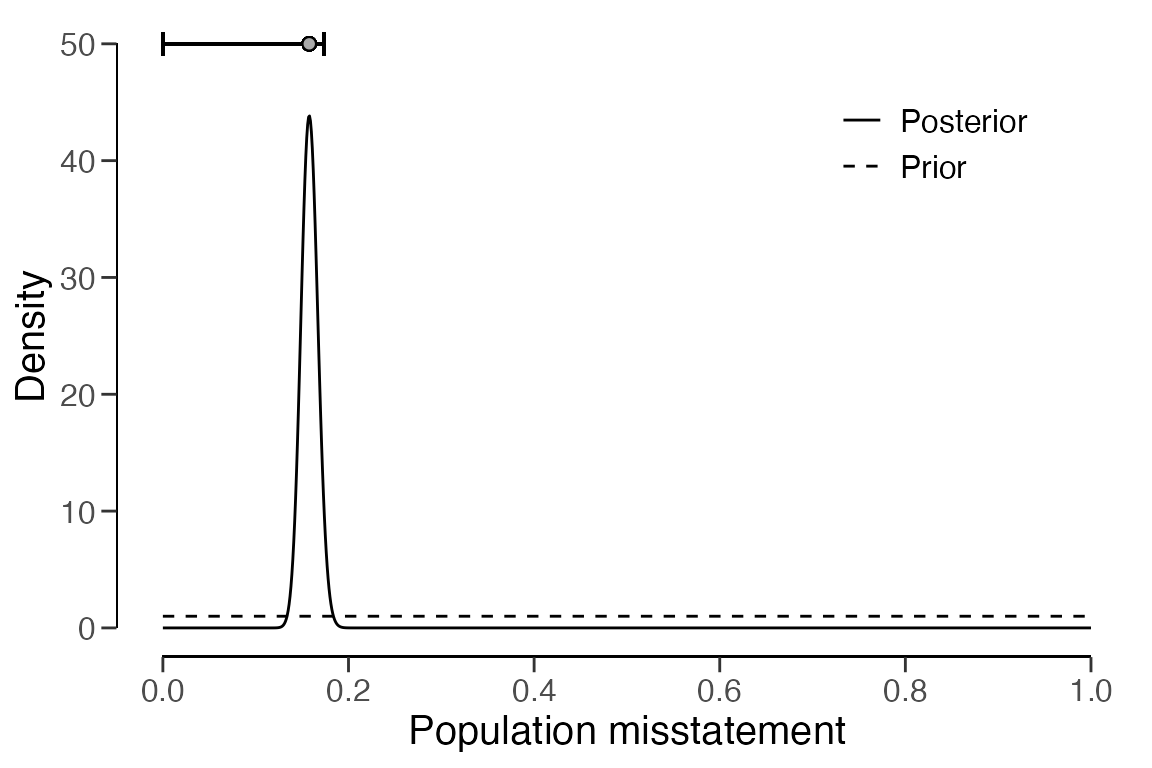
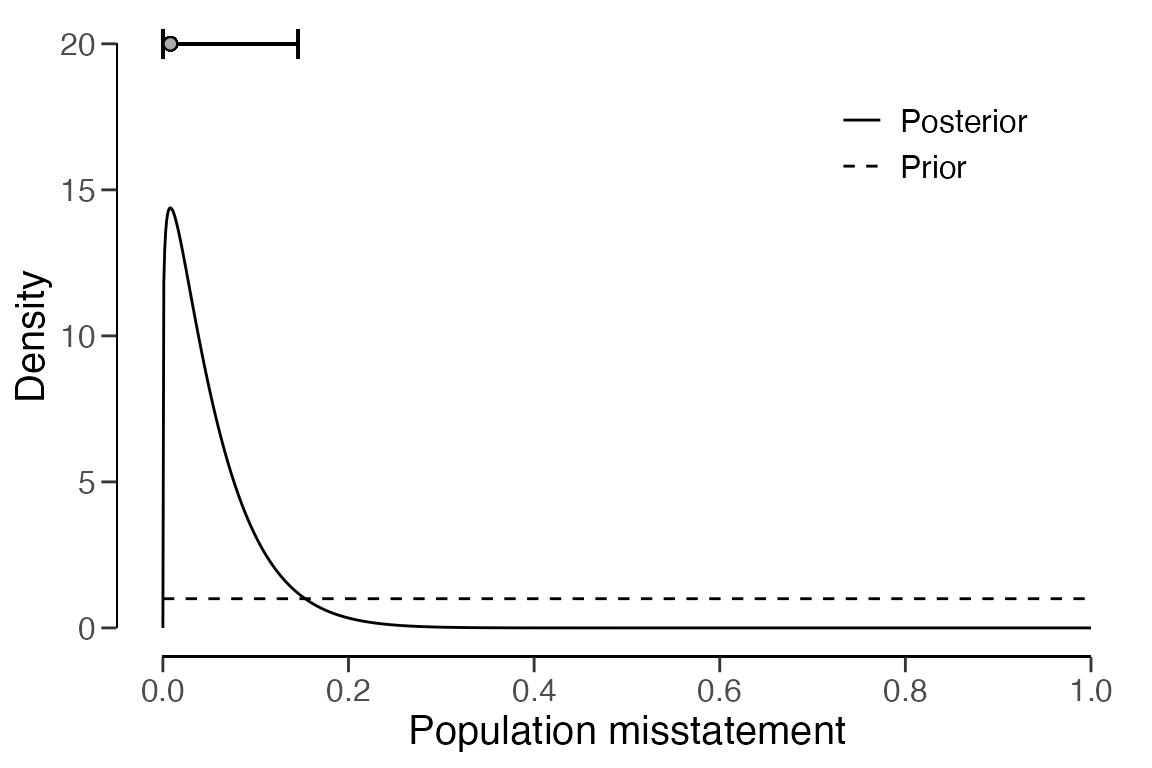
Built site for jfa@0.7.3: 54d01b3

diff --git a/articles/sample-evaluation.html b/articles/sample-evaluation.html
@@ -597,6 +597,138 @@ function.</p>
 <div class="section level2">
 <h2 id="evaluation-using-data">Evaluation using data<a class="anchor" aria-label="anchor" href="#evaluation-using-data"></a>
 </h2>
+<p>We now consider the situation where the auditor has access to the
+sample (and potentially the population) data and wants to perform
+inference about the misstatement using these data.</p>
+<div class="section level3">
+<h3 id="non-stratified-samples-1">Non-stratified samples<a class="anchor" aria-label="anchor" href="#non-stratified-samples-1"></a>
+</h3>
+<p>In this example, we will demonstrate how to evaluate a non-stratified
+sample using a data set. For this, we will use the <code>accounts</code>
+data that is included in the package. These data represent an audit
+sample obtained from a population of
+<math display="inline" xmlns="http://www.w3.org/1998/Math/MathML"><semantics><mi>N</mi><annotation encoding="application/x-tex">N</annotation></semantics></math>
+= 87 accounts receivable, totaling $612,824 in book value <span class="citation">(Higgins &amp; Nandram, 2009; Lohr, 2021)</span>.</p>
+<div class="sourceCode" id="cb17"><pre class="downlit sourceCode r">
+<code class="sourceCode R"><span><span class="fu"><a href="https://rdrr.io/r/utils/data.html" class="external-link">data</a></span><span class="op">(</span><span class="st">"accounts"</span><span class="op">)</span></span>
+<span><span class="fu"><a href="https://rdrr.io/r/utils/head.html" class="external-link">head</a></span><span class="op">(</span><span class="va">accounts</span><span class="op">)</span></span></code></pre></div>
+<pre><code><span><span class="co">##   account bookValue auditValue</span></span>
+<span><span class="co">## 1       3      6842       6842</span></span>
+<span><span class="co">## 2       9     16350      16350</span></span>
+<span><span class="co">## 3      13      3935       3935</span></span>
+<span><span class="co">## 4      24      7090       7050</span></span>
+<span><span class="co">## 5      29      5533       5533</span></span>
+<span><span class="co">## 6      34      2163       2163</span></span></code></pre>
+<p>To evaluate a non-stratified sample using data, you need to specify
+the <code>data</code>, <code>values</code>, and
+<code>values.audit</code> arguments in the <code><a href="../reference/evaluation.html">evaluation()</a></code>
+function. The input for the latter two arguments should be the name of
+the corresponding column in the input for the <code>data</code>
+argument. In the <code>accounts</code> data, these two columns are
+called <code>bookValue</code> and <code>auditValue</code>,
+respectively.</p>
+<div class="section level4">
+<h4 id="classical-approach-1">Classical approach<a class="anchor" aria-label="anchor" href="#classical-approach-1"></a>
+</h4>
+<p>The command below evaluates the <code>allowances</code> sample using
+a classical non-stratified evaluation approach.</p>
+<div class="sourceCode" id="cb19"><pre class="downlit sourceCode r">
+<code class="sourceCode R"><span><span class="fu"><a href="../reference/evaluation.html">evaluation</a></span><span class="op">(</span></span>
+<span>  data <span class="op">=</span> <span class="va">accounts</span>, method <span class="op">=</span> <span class="st">"binomial"</span>,</span>
+<span>  values <span class="op">=</span> <span class="st">"bookValue"</span>, values.audit <span class="op">=</span> <span class="st">"auditValue"</span></span>
+<span><span class="op">)</span></span></code></pre></div>
+<pre><code><span><span class="co">## </span></span>
+<span><span class="co">##  Classical Audit Sample Evaluation</span></span>
+<span><span class="co">## </span></span>
+<span><span class="co">## data:  accounts</span></span>
+<span><span class="co">## number of errors = 4, number of samples = 20, taint = 0.16127</span></span>
+<span><span class="co">## 95 percent confidence interval:</span></span>
+<span><span class="co">##  0.0000000 0.1527346</span></span>
+<span><span class="co">## most likely estimate:</span></span>
+<span><span class="co">##  0.0080633 </span></span>
+<span><span class="co">## results obtained via method 'binomial'</span></span></code></pre>
+<p>In this instance, the output indicates that the estimated most likely
+misstatement in the population is 0.81 percent. The 95 percent
+(one-sided) confidence interval extends from 0 percent to 15.27 percent.
+More detailed information about the results can be obtained via the
+<code><a href="https://rdrr.io/r/base/summary.html" class="external-link">summary()</a></code> function.</p>
+</div>
+<div class="section level4">
+<h4 id="bayesian-approach-1">Bayesian approach<a class="anchor" aria-label="anchor" href="#bayesian-approach-1"></a>
+</h4>
+<p>The call below evaluates the <code>accounts</code> sample using a
+Bayesian non-stratified evaluation procedure.</p>
+<div class="sourceCode" id="cb21"><pre class="downlit sourceCode r">
+<code class="sourceCode R"><span><span class="va">result</span> <span class="op">&lt;-</span> <span class="fu"><a href="../reference/evaluation.html">evaluation</a></span><span class="op">(</span></span>
+<span>  data <span class="op">=</span> <span class="va">accounts</span>, method <span class="op">=</span> <span class="st">"binomial"</span>,</span>
+<span>  values <span class="op">=</span> <span class="st">"bookValue"</span>, values.audit <span class="op">=</span> <span class="st">"auditValue"</span>, prior <span class="op">=</span> <span class="cn">TRUE</span></span>
+<span><span class="op">)</span></span>
+<span><span class="fu"><a href="https://rdrr.io/r/base/print.html" class="external-link">print</a></span><span class="op">(</span><span class="va">result</span><span class="op">)</span></span></code></pre></div>
+<pre><code><span><span class="co">## </span></span>
+<span><span class="co">##  Bayesian Audit Sample Evaluation</span></span>
+<span><span class="co">## </span></span>
+<span><span class="co">## data:  accounts</span></span>
+<span><span class="co">## number of errors = 4, number of samples = 20, taint = 0.16127</span></span>
+<span><span class="co">## 95 percent credible interval:</span></span>
+<span><span class="co">##  0.000000 0.145994</span></span>
+<span><span class="co">## most likely estimate:</span></span>
+<span><span class="co">##  0.0080633 </span></span>
+<span><span class="co">## results obtained via method 'binomial' + 'prior'</span></span></code></pre>
+<p>The output shows that the estimate of the misstatement in the
+population is again 0.81 percent, with the 95 percent (one-sided)
+credible interval ranging from 0 percent to 14.6 percent. For the
+Bayesian analysis, the prior and posterior distribution can be
+visualized by a call to <code>plot(..., type = "posterior")</code>.</p>
+<div class="sourceCode" id="cb23"><pre class="downlit sourceCode r">
+<code class="sourceCode R"><span><span class="fu"><a href="https://rdrr.io/r/graphics/plot.default.html" class="external-link">plot</a></span><span class="op">(</span><span class="va">result</span>, type <span class="op">=</span> <span class="st">"posterior"</span><span class="op">)</span></span></code></pre></div>
+<p><img src="sample-evaluation_files/figure-html/unnamed-chunk-16-1.png" width="576" style="display: block; margin: auto;"></p>
+<p>You can also quantify and monitor evidence for or against the claim
+that the misstatement is lower than a specific performance materiality
+using the Bayes factor. Suppose that the performance materiality for
+this example is set to ten percent of the population value. It is
+recommended to use an impartial prior distribution when calculating the
+Bayes factor, which can be set up using the code below.</p>
+<div class="sourceCode" id="cb24"><pre class="downlit sourceCode r">
+<code class="sourceCode R"><span><span class="va">prior</span> <span class="op">&lt;-</span> <span class="fu"><a href="../reference/auditPrior.html">auditPrior</a></span><span class="op">(</span></span>
+<span>  materiality <span class="op">=</span> <span class="fl">0.1</span>, method <span class="op">=</span> <span class="st">"impartial"</span>, likelihood <span class="op">=</span> <span class="st">"binomial"</span></span>
+<span><span class="op">)</span></span></code></pre></div>
+<p>After it has been specified, you can use the impartial prior
+distribution in the <code><a href="../reference/evaluation.html">evaluation()</a></code> function as input for the
+<code>prior</code> argument.</p>
+<div class="sourceCode" id="cb25"><pre class="downlit sourceCode r">
+<code class="sourceCode R"><span><span class="va">result</span> <span class="op">&lt;-</span> <span class="fu"><a href="../reference/evaluation.html">evaluation</a></span><span class="op">(</span></span>
+<span>  materiality <span class="op">=</span> <span class="fl">0.1</span>, data <span class="op">=</span> <span class="va">accounts</span>, method <span class="op">=</span> <span class="st">"binomial"</span>,</span>
+<span>  values <span class="op">=</span> <span class="st">"bookValue"</span>, values.audit <span class="op">=</span> <span class="st">"auditValue"</span>, prior <span class="op">=</span> <span class="va">prior</span></span>
+<span><span class="op">)</span></span>
+<span><span class="fu"><a href="https://rdrr.io/r/base/print.html" class="external-link">print</a></span><span class="op">(</span><span class="va">result</span><span class="op">)</span></span></code></pre></div>
+<pre><code><span><span class="co">## </span></span>
+<span><span class="co">##  Bayesian Audit Sample Evaluation</span></span>
+<span><span class="co">## </span></span>
+<span><span class="co">## data:  accounts</span></span>
+<span><span class="co">## number of errors = 4, number of samples = 20, taint = 0.16127, BF₁₀ =</span></span>
+<span><span class="co">## 11.274</span></span>
+<span><span class="co">## alternative hypothesis: true misstatement rate is less than 0.1</span></span>
+<span><span class="co">## 95 percent credible interval:</span></span>
+<span><span class="co">##  0.0000000 0.1171385</span></span>
+<span><span class="co">## most likely estimate:</span></span>
+<span><span class="co">##  0.0063047 </span></span>
+<span><span class="co">## results obtained via method 'binomial' + 'prior'</span></span></code></pre>
+<p>It can be seen from the output that the Bayes factor in favor of the
+hypothesis of tolerable misstatement is 11.274. This indicates that the
+data is roughly 11 times more likely under the hypothesis of tolerable
+misstatement than under the hypothesis of intolerable misstatement.
+Besides computing the Bayes factor for the total sample, it is also
+possible to see how the Bayes factor evolves as a function of the sample
+size. This can be done via a call to
+<code>plot(..., type = "sequential")</code>.</p>
+<div class="sourceCode" id="cb27"><pre class="downlit sourceCode r">
+<code class="sourceCode R"><span><span class="fu"><a href="https://rdrr.io/r/graphics/plot.default.html" class="external-link">plot</a></span><span class="op">(</span><span class="va">result</span>, type <span class="op">=</span> <span class="st">"sequential"</span><span class="op">)</span></span></code></pre></div>
+<p><img src="sample-evaluation_files/figure-html/unnamed-chunk-19-1.png" width="576" style="display: block; margin: auto;"></p>
+</div>
+</div>
+<div class="section level3">
+<h3 id="stratified-samples-1">Stratified samples<a class="anchor" aria-label="anchor" href="#stratified-samples-1"></a>
+</h3>
 <p>In this example, we will demonstrate how to evaluate a stratified
 sample using a data set. We will use the <code>allowances</code> data
 set that is included in the package. This data set comprises
@@ -606,10 +738,10 @@ recorded value book value (column <code>bookValue</code>) and an audited
 value (column <code>auditValue</code>), which is the true value for the
 purpose of this illustration. The data set already identifies the items
 that have been audited as part of the sample in the column
-<code>times</code>. In this scenario, we will be performing estimation
-and therefore do not specify the <code>materiality</code> argument in
-the <code><a href="../reference/evaluation.html">evaluation()</a></code> function.</p>
-<div class="sourceCode" id="cb17"><pre class="downlit sourceCode r">
+<code>times</code>. In this scenario, we will only be performing
+estimation and therefore do not specify the <code>materiality</code>
+argument in the <code><a href="../reference/evaluation.html">evaluation()</a></code> function.</p>
+<div class="sourceCode" id="cb28"><pre class="downlit sourceCode r">
 <code class="sourceCode R"><span><span class="fu"><a href="https://rdrr.io/r/utils/data.html" class="external-link">data</a></span><span class="op">(</span><span class="st">"allowances"</span><span class="op">)</span></span>
 <span><span class="fu"><a href="https://rdrr.io/r/utils/head.html" class="external-link">head</a></span><span class="op">(</span><span class="va">allowances</span><span class="op">)</span></span></code></pre></div>
 <pre><code><span><span class="co">##   item branch bookValue auditValue times</span></span>
@@ -619,89 +751,6 @@ the <code><a href="../reference/evaluation.html">evaluation()</a></code> functio
 <span><span class="co">## 4    4     12      1250       1250     1</span></span>
 <span><span class="co">## 5    5     12      1400         NA     0</span></span>
 <span><span class="co">## 6    6     12      1190         NA     0</span></span></code></pre>
-<div class="section level3">
-<h3 id="non-stratified-samples-1">Non-stratified samples<a class="anchor" aria-label="anchor" href="#non-stratified-samples-1"></a>
-</h3>
-<p>To evaluate a non-stratified sample using data, you need to specify
-the <code>data</code>, <code>values</code>, and
-<code>values.audit</code> arguments. The input for these arguments
-should be the name of the corresponding column in the input for the
-<code>data</code> argument.</p>
-<div class="section level4">
-<h4 id="classical-approach-1">Classical approach<a class="anchor" aria-label="anchor" href="#classical-approach-1"></a>
-</h4>
-<p>The command below evaluates the <code>allowances</code> sample using
-a classical non-stratified evaluation approach. Note that the sample is
-automatically separated from the population because the
-<code>times</code> value for items not in the sample is
-<code>0</code>.</p>
-<div class="sourceCode" id="cb19"><pre class="downlit sourceCode r">
-<code class="sourceCode R"><span><span class="fu"><a href="../reference/evaluation.html">evaluation</a></span><span class="op">(</span></span>
-<span>  data <span class="op">=</span> <span class="va">allowances</span>, times <span class="op">=</span> <span class="st">"times"</span>, method <span class="op">=</span> <span class="st">"binomial"</span>,</span>
-<span>  values <span class="op">=</span> <span class="st">"bookValue"</span>, values.audit <span class="op">=</span> <span class="st">"auditValue"</span></span>
-<span><span class="op">)</span></span></code></pre></div>
-<pre><code><span><span class="co">## </span></span>
-<span><span class="co">##  Classical Audit Sample Evaluation</span></span>
-<span><span class="co">## </span></span>
-<span><span class="co">## data:  allowances</span></span>
-<span><span class="co">## number of errors = 401, number of samples = 1604, taint = 252.93</span></span>
-<span><span class="co">## 95 percent confidence interval:</span></span>
-<span><span class="co">##  0.0000000 0.1734283</span></span>
-<span><span class="co">## most likely estimate:</span></span>
-<span><span class="co">##  0.15769 </span></span>
-<span><span class="co">## results obtained via method 'binomial'</span></span></code></pre>
-<p>In this instance, the output indicates that the estimated
-misstatement in the population is 15.77 percent. The 95 percent
-(one-sided) confidence interval extends from 0 percent to 17.34 percent.
-More detailed information can be obtained via the <code><a href="https://rdrr.io/r/base/summary.html" class="external-link">summary()</a></code>
-function.</p>
-</div>
-<div class="section level4">
-<h4 id="bayesian-approach-1">Bayesian approach<a class="anchor" aria-label="anchor" href="#bayesian-approach-1"></a>
-</h4>
-<p>The call below evaluates the <code>allowances</code> sample using a
-Bayesian non-stratified evaluation procedure. The performance
-materiality for this example is set to twenty percen of the population
-value.</p>
-<div class="sourceCode" id="cb21"><pre class="downlit sourceCode r">
-<code class="sourceCode R"><span><span class="va">result</span> <span class="op">&lt;-</span> <span class="fu"><a href="../reference/evaluation.html">evaluation</a></span><span class="op">(</span></span>
-<span>  materiality <span class="op">=</span> <span class="fl">0.2</span>, data <span class="op">=</span> <span class="va">allowances</span>, times <span class="op">=</span> <span class="st">"times"</span>, method <span class="op">=</span> <span class="st">"binomial"</span>,</span>
-<span>  values <span class="op">=</span> <span class="st">"bookValue"</span>, values.audit <span class="op">=</span> <span class="st">"auditValue"</span>, prior <span class="op">=</span> <span class="cn">TRUE</span></span>
-<span><span class="op">)</span></span>
-<span><span class="fu"><a href="https://rdrr.io/r/base/print.html" class="external-link">print</a></span><span class="op">(</span><span class="va">result</span><span class="op">)</span></span></code></pre></div>
-<pre><code><span><span class="co">## </span></span>
-<span><span class="co">##  Bayesian Audit Sample Evaluation</span></span>
-<span><span class="co">## </span></span>
-<span><span class="co">## data:  allowances</span></span>
-<span><span class="co">## number of errors = 401, number of samples = 1604, taint = 252.93, BF₁₀</span></span>
-<span><span class="co">## = 545408</span></span>
-<span><span class="co">## alternative hypothesis: true misstatement rate is less than 0.2</span></span>
-<span><span class="co">## 95 percent credible interval:</span></span>
-<span><span class="co">##  0.0000000 0.1733213</span></span>
-<span><span class="co">## most likely estimate:</span></span>
-<span><span class="co">##  0.15769 </span></span>
-<span><span class="co">## results obtained via method 'binomial' + 'prior'</span></span></code></pre>
-<p>The output shows that the estimate of the misstatement in the
-population is 15.77 percent, with the 95 percent (one-sided) credible
-interval ranging from 0 percent to 17.33 percent. More detailed
-information can be obtained via <code><a href="https://rdrr.io/r/base/summary.html" class="external-link">summary()</a></code> and the prior and
-posterior distribution can be obtained by a call to
-<code>plot(..., type = "posterior")</code>.</p>
-<div class="sourceCode" id="cb23"><pre class="downlit sourceCode r">
-<code class="sourceCode R"><span><span class="fu"><a href="https://rdrr.io/r/graphics/plot.default.html" class="external-link">plot</a></span><span class="op">(</span><span class="va">result</span>, type <span class="op">=</span> <span class="st">"posterior"</span><span class="op">)</span></span></code></pre></div>
-<p><img src="sample-evaluation_files/figure-html/unnamed-chunk-16-1.png" width="576" style="display: block; margin: auto;"></p>
-<p>It is also possible to see how the Bayes factor evolves as a function
-of the sample size. This can be done using
-<code>plot(..., type = "sequential")</code>. In this case, the Bayes
-factor is very large due to the large sample.</p>
-<div class="sourceCode" id="cb24"><pre class="downlit sourceCode r">
-<code class="sourceCode R"><span><span class="fu"><a href="https://rdrr.io/r/graphics/plot.default.html" class="external-link">plot</a></span><span class="op">(</span><span class="va">result</span>, type <span class="op">=</span> <span class="st">"sequential"</span><span class="op">)</span></span></code></pre></div>
-<p><img src="sample-evaluation_files/figure-html/unnamed-chunk-17-1.png" width="576" style="display: block; margin: auto;"></p>
-</div>
-</div>
-<div class="section level3">
-<h3 id="stratified-samples-1">Stratified samples<a class="anchor" aria-label="anchor" href="#stratified-samples-1"></a>
-</h3>
 <p>To evaluate a stratified sample using a data set, you need to specify
 the <code>data</code>, <code>values</code>, <code>values.audit</code>,
 and <code>strata</code> arguments in the <code><a href="../reference/evaluation.html">evaluation()</a></code>
@@ -710,7 +759,7 @@ this example, the units are monetary, determined by summing up the book
 values of the items within each stratum. For instance, we can see that
 stratum two is the largest, with a total value of $2,792,814.33 and
 stratum five is the smallest, with a total value of $96,660.53.</p>
-<div class="sourceCode" id="cb25"><pre class="downlit sourceCode r">
+<div class="sourceCode" id="cb30"><pre class="downlit sourceCode r">
 <code class="sourceCode R"><span><span class="va">N.units</span> <span class="op">&lt;-</span> <span class="fu"><a href="https://rdrr.io/r/stats/aggregate.html" class="external-link">aggregate</a></span><span class="op">(</span><span class="va">allowances</span><span class="op">$</span><span class="va">bookValue</span>, <span class="fu"><a href="https://rdrr.io/r/base/list.html" class="external-link">list</a></span><span class="op">(</span><span class="va">allowances</span><span class="op">$</span><span class="va">branch</span><span class="op">)</span>, <span class="va">sum</span><span class="op">)</span><span class="op">$</span><span class="va">x</span></span>
 <span><span class="fu"><a href="https://rdrr.io/r/base/print.html" class="external-link">print</a></span><span class="op">(</span><span class="fu"><a href="https://rdrr.io/r/base/data.frame.html" class="external-link">data.frame</a></span><span class="op">(</span><span class="va">N.units</span><span class="op">)</span><span class="op">)</span></span></code></pre></div>
 <pre><code><span><span class="co">##       N.units</span></span>
@@ -737,8 +786,11 @@ stratum five is the smallest, with a total value of $96,660.53.</p>
 using a classical stratified evaluation method. In this process, the
 estimates from each stratum are poststratified to derive the estimate
 for the entire population. Note that for computational reasons it is
-important to set a seed here via <code><a href="https://rdrr.io/r/base/Random.html" class="external-link">set.seed()</a></code>.</p>
-<div class="sourceCode" id="cb27"><pre class="downlit sourceCode r">
+important to set a seed here via <code><a href="https://rdrr.io/r/base/Random.html" class="external-link">set.seed()</a></code>. Furthermore,
+note that the sample is automatically separated from the population
+because the <code>times</code> value for items not in the sample is
+<code>0</code>.</p>
+<div class="sourceCode" id="cb32"><pre class="downlit sourceCode r">
 <code class="sourceCode R"><span><span class="fu"><a href="https://rdrr.io/r/base/Random.html" class="external-link">set.seed</a></span><span class="op">(</span><span class="fl">1</span><span class="op">)</span></span>
 <span><span class="va">result</span> <span class="op">&lt;-</span> <span class="fu"><a href="../reference/evaluation.html">evaluation</a></span><span class="op">(</span></span>
 <span>  data <span class="op">=</span> <span class="va">allowances</span>, times <span class="op">=</span> <span class="st">"times"</span>, method <span class="op">=</span> <span class="st">"binomial"</span>,</span>
@@ -764,9 +816,9 @@ population estimate is therefore 4.26 percent. The estimates for each
 stratum are visualized below. For more detailed information, including
 the actual stratum estimates, you can use the <code><a href="https://rdrr.io/r/base/summary.html" class="external-link">summary()</a></code>
 function.</p>
-<div class="sourceCode" id="cb29"><pre class="downlit sourceCode r">
+<div class="sourceCode" id="cb34"><pre class="downlit sourceCode r">
 <code class="sourceCode R"><span><span class="fu"><a href="https://rdrr.io/r/graphics/plot.default.html" class="external-link">plot</a></span><span class="op">(</span><span class="va">result</span>, type <span class="op">=</span> <span class="st">"estimates"</span><span class="op">)</span></span></code></pre></div>
-<p><img src="sample-evaluation_files/figure-html/unnamed-chunk-20-1.png" width="576" style="display: block; margin: auto;"></p>
+<p><img src="sample-evaluation_files/figure-html/unnamed-chunk-23-1.png" width="576" style="display: block; margin: auto;"></p>
 </div>
 <div class="section level4">
 <h4 id="bayesian-approach-2">Bayesian approach<a class="anchor" aria-label="anchor" href="#bayesian-approach-2"></a>
@@ -777,7 +829,7 @@ The following command evaluates the <code>allowances</code> sample using
 a Bayesian stratified evaluation method. In this process, the estimates
 from each stratum are pooled and poststratified to derive the estimate
 for the entire population.</p>
-<div class="sourceCode" id="cb30"><pre class="downlit sourceCode r">
+<div class="sourceCode" id="cb35"><pre class="downlit sourceCode r">
 <code class="sourceCode R"><span><span class="fu"><a href="https://rdrr.io/r/base/Random.html" class="external-link">set.seed</a></span><span class="op">(</span><span class="fl">1</span><span class="op">)</span></span>
 <span><span class="va">result</span> <span class="op">&lt;-</span> <span class="fu"><a href="../reference/evaluation.html">evaluation</a></span><span class="op">(</span></span>
 <span>  data <span class="op">=</span> <span class="va">allowances</span>, times <span class="op">=</span> <span class="st">"times"</span>, method <span class="op">=</span> <span class="st">"binomial"</span>,</span>
@@ -805,15 +857,15 @@ approach. The estimates for each stratum are visualized below using the
 <code>plot(..., type = "estimates)</code> command but their actual
 values can be once again be obtained using the <code><a href="https://rdrr.io/r/base/summary.html" class="external-link">summary()</a></code>
 function.</p>
-<div class="sourceCode" id="cb32"><pre class="downlit sourceCode r">
+<div class="sourceCode" id="cb37"><pre class="downlit sourceCode r">
 <code class="sourceCode R"><span><span class="fu"><a href="https://rdrr.io/r/graphics/plot.default.html" class="external-link">plot</a></span><span class="op">(</span><span class="va">result</span>, type <span class="op">=</span> <span class="st">"estimates"</span><span class="op">)</span></span></code></pre></div>
-<p><img src="sample-evaluation_files/figure-html/unnamed-chunk-23-1.png" width="576" style="display: block; margin: auto;"></p>
+<p><img src="sample-evaluation_files/figure-html/unnamed-chunk-26-1.png" width="576" style="display: block; margin: auto;"></p>
 <p>The prior and posterior distribution for the population misstatement
 can be obtained via the <code>plot(..., type = "posterior")</code>
 function.</p>
-<div class="sourceCode" id="cb33"><pre class="downlit sourceCode r">
+<div class="sourceCode" id="cb38"><pre class="downlit sourceCode r">
 <code class="sourceCode R"><span><span class="fu"><a href="https://rdrr.io/r/graphics/plot.default.html" class="external-link">plot</a></span><span class="op">(</span><span class="va">result</span>, type <span class="op">=</span> <span class="st">"posterior"</span><span class="op">)</span></span></code></pre></div>
-<p><img src="sample-evaluation_files/figure-html/unnamed-chunk-24-1.png" width="576" style="display: block; margin: auto;"></p>
+<p><img src="sample-evaluation_files/figure-html/unnamed-chunk-27-1.png" width="576" style="display: block; margin: auto;"></p>
 </div>
 </div>
 </div>
@@ -844,6 +896,15 @@ Derks, K., Swart, J. de, Wagenmakers, E.-J., &amp; Wetzels, R. (2024).
 The <span>B</span>ayesian approach to audit evidence: Quantifying
 statistical evidence using the bayes factor. <em>Auditing: A Journal of
 Practice &amp; Theory</em>. <a href="https://doi.org/10.31234/osf.io/kzqp5" class="external-link">https://doi.org/10.31234/osf.io/kzqp5</a>
+</div>
+<div id="ref-higgins_2009" class="csl-entry">
+Higgins, H. N., &amp; Nandram, B. (2009). Monetary unit sampling:
+Improving estimation of the total audit error. <em>Advances in
+Accounting</em>, <em>25</em>(2), 174–182. <a href="https://doi.org/10.1016/j.adiac.2009.06.001" class="external-link">https://doi.org/10.1016/j.adiac.2009.06.001</a>
+</div>
+<div id="ref-lohr_2021" class="csl-entry">
+Lohr, S. L. (2021). <em>Sampling: Design and analysis</em>. Chapman;
+Hall/CRC. <a href="https://doi.org/10.1201/9780429298899" class="external-link">https://doi.org/10.1201/9780429298899</a>
 </div>
 <div id="ref-stewart_2012" class="csl-entry">
 Stewart, T. R. (2012). <em>Technical notes on the <span>AICPA</span>
